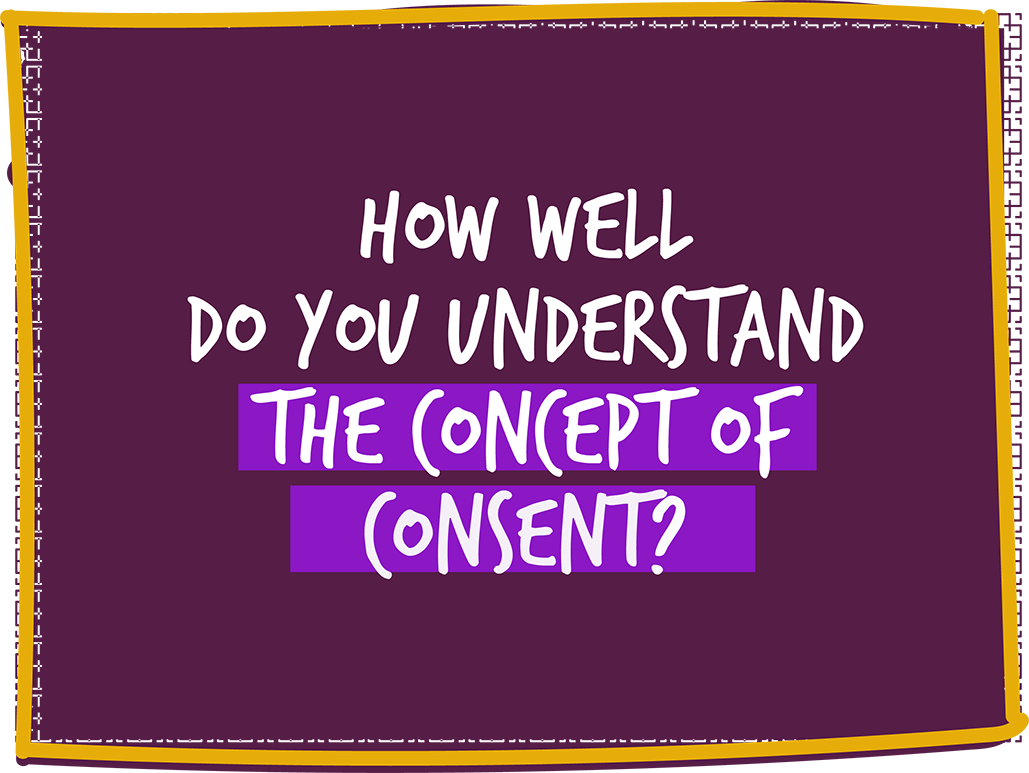
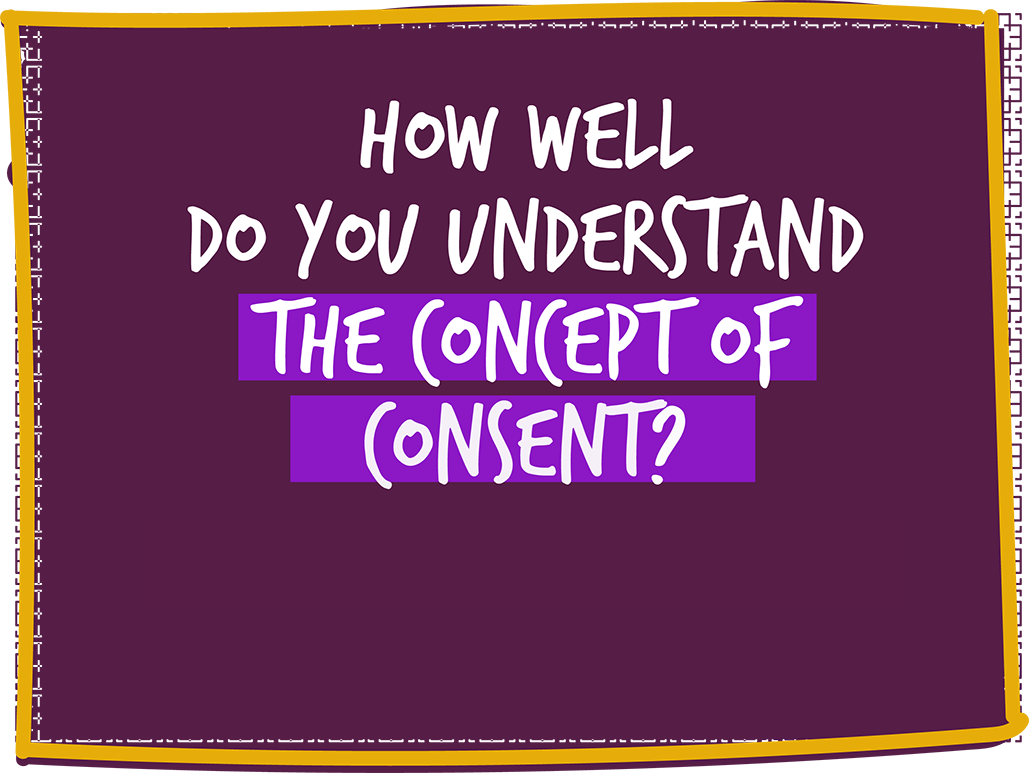
update consent

Changed region(s): [[0.1866, 0.1242, 0.8397, 0.7451]]

diff --git a/consent/assets/css/theme.css b/consent/assets/css/theme.css
@@ -81,7 +81,6 @@ h1, h2, h3, h4, h5, h6 {
 	left: 50%;
 	margin-left: -400px;
 	margin-top: -300px;
-	cursor: pointer;
 }
 .quiz-item {
 	display: none;
@@ -113,7 +112,7 @@ h1, h2, h3, h4, h5, h6 {
 .quiz-item .quiz-img {
 	max-width: 460px;
 	display: inline-block;
-	margin-top: 10px;
+	margin-top: 20px;
 }
 
 .quiz-ans{
@@ -163,16 +162,23 @@ background: #8B26C2;
 }
 
 .container.ans-container {
-  background: #561d47 none repeat scroll 0 0;
+  
+}
+
+.container.ans-container ul{
+	
+	background: #561d47 none repeat scroll 0 0;
   color: #fff;
   padding: 30px;
   text-align: center;
 }
 
+
 .container.ans-container h3 {
   color: #fff;
   font-size: 30px;
   margin-bottom: 10px;
+	line-height: 130%;
 }
 
 /*
@@ -192,3 +198,28 @@ background: #8B26C2;
 .ans-1.is-result, .ans-2.is-result, .ans-3.is-result, .ans-4.is-result, .ans-5.is-result {
 	display: block;
 }
+
+
+.btn-start{
+	position: absolute; 
+	background: #fff;
+	display: inline-block;
+	color: #561D47;
+	bottom: 20%;
+	left: 50%;
+	z-index: 999;
+	padding: 13px 0 11px 0px;
+	font-size: 30px;
+	width: 160px;
+	line-height: 100%;
+	margin-left: -80px;
+	text-align: center;
+	font-family: "Anton",sans-serif;
+	text-transform: uppercase;
+}
+.btn-start:hover{
+	background: #8B17C5;
+	color: #fff;
+}
+
+

diff --git a/consent/assets/css/responsive.css b/consent/assets/css/responsive.css
@@ -30,3 +30,64 @@
 }
 }
 
+@media (max-width: 900px) {
+.start-screen {
+	cursor: pointer;
+	display: inline-block;
+	height: auto;
+	width: auto;
+	left: 0%;
+	top: 0;
+	margin: 80px 20px 0 20px;
+	position: relative;
+}
+.container.ans-container {
+	padding-top: 60px;
+}
+}
+
+@media (max-width: 767px) {
+.btn-start {
+	bottom: 15%;
+	left: 50%;
+	z-index: 999;
+	padding: 10px 0 9px 0px;
+	font-size: 25px;
+	width: 120px;
+	margin-left: -60px;
+}
+.quiz-ans li {
+	float: none;
+	font-size: 110%;
+	height: auto;
+	margin: 0 0 15px 0;
+	padding: 10px;
+	text-align: left;
+	width: 100%;
+}
+}
+
+@media (max-width: 575px) {
+.btn-start {
+	bottom: 13%;
+	left: 50%;
+	z-index: 999;
+	padding: 8px 0 6px 0px;
+	font-size: 20px;
+	width: 100px;
+	margin-left: -50px;
+}
+.quiz-item h2 {
+	font-size: 25px;
+	margin: 50px 0 0 0;
+}
+.container.ans-container ul {
+	padding: 15px;
+}
+	
+	.container.ans-container h3 {
+
+  font-size: 25px;
+
+}
+}

diff --git a/consent/index.html b/consent/index.html
@@ -52,7 +52,10 @@
 
 <body>
 <div class="logo"><a href="https://www.thequint.com" target="_blank"> <img src="assets/images/logo.png"> </a></div>
-<div class="start-screen" id="startScreen"> <img src="assets/images/screen.png" alt=""> </div>
+<div class="start-screen"> 
+<img src="assets/images/screen.png" alt=""> 
+<a class="btn-start" id="startScreen" href="javascript:void();">Start</a>
+</div>
 <section class="wrapper app-wrapper">
  <div class="points">0</div>
   <div class="container" id="questionContainer" style="display: none;">

diff --git a/consent/assets/js/functions.js b/consent/assets/js/functions.js
@@ -1,7 +1,7 @@
 
 $(document).ready(function(){
 	$('#startScreen').click(function(){
-		$(this).fadeOut();
+		$('.start-screen').hide();
 		$('#questionContainer').show();
 	});
 	
